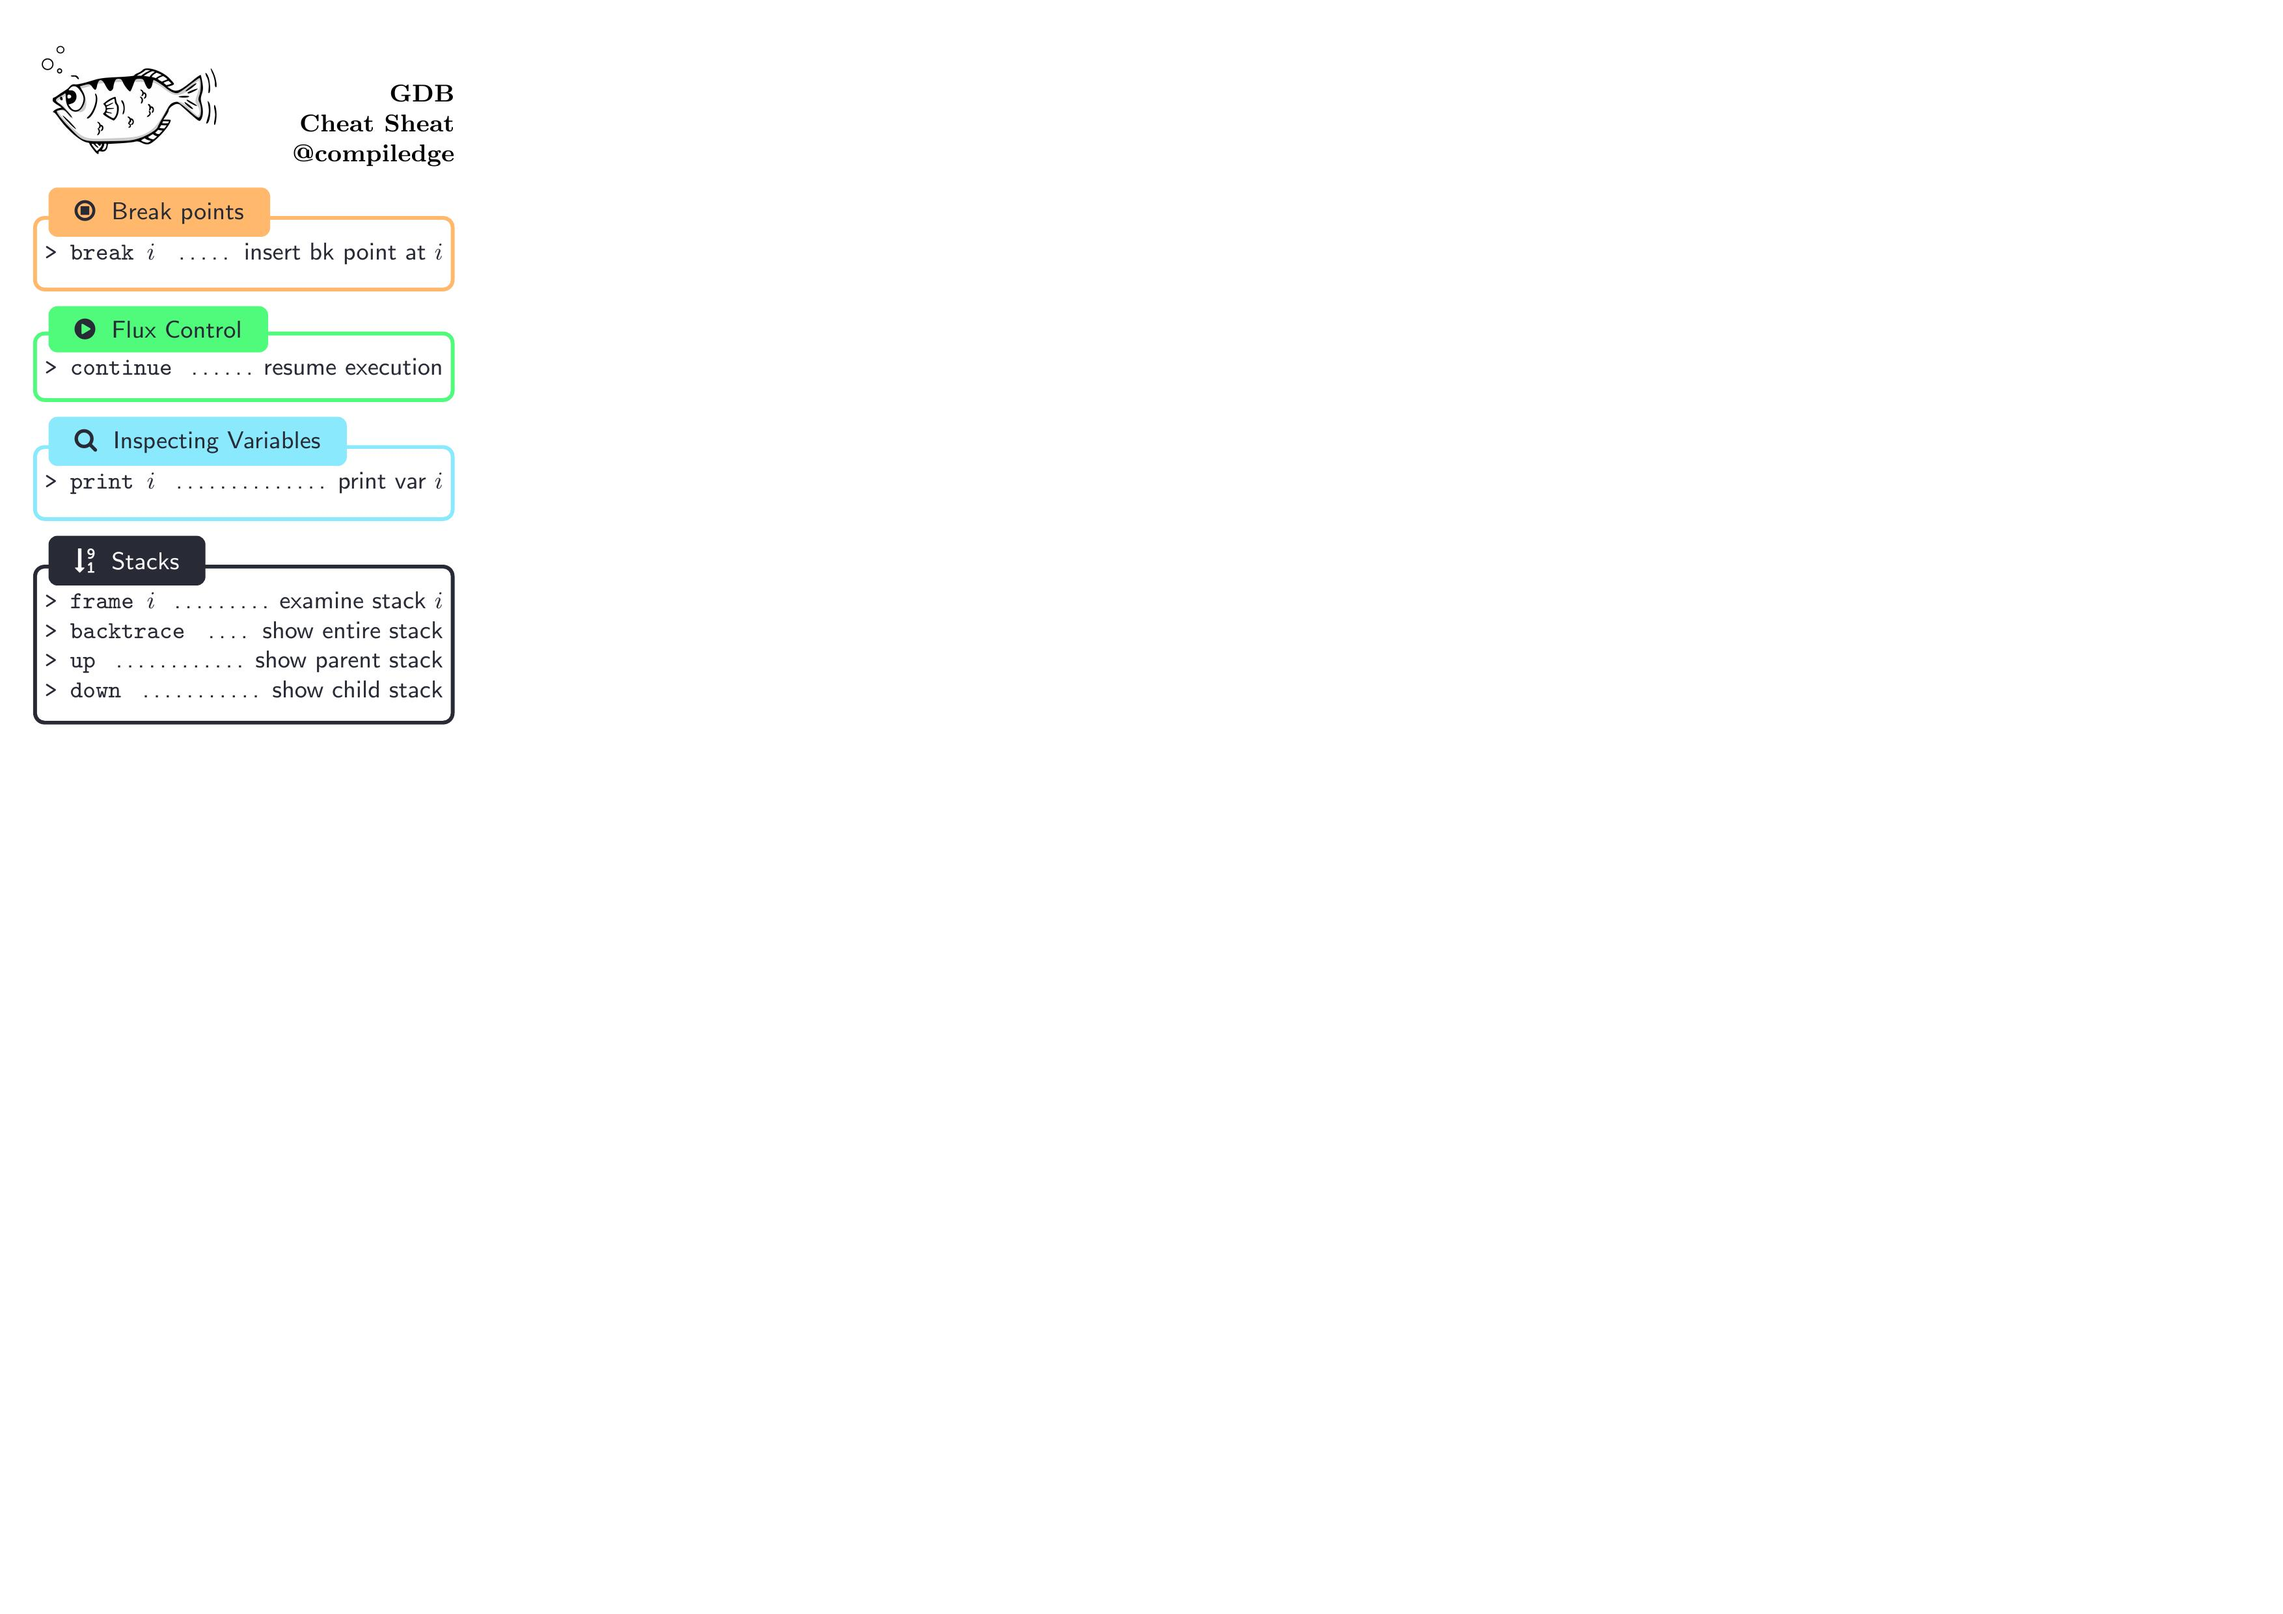
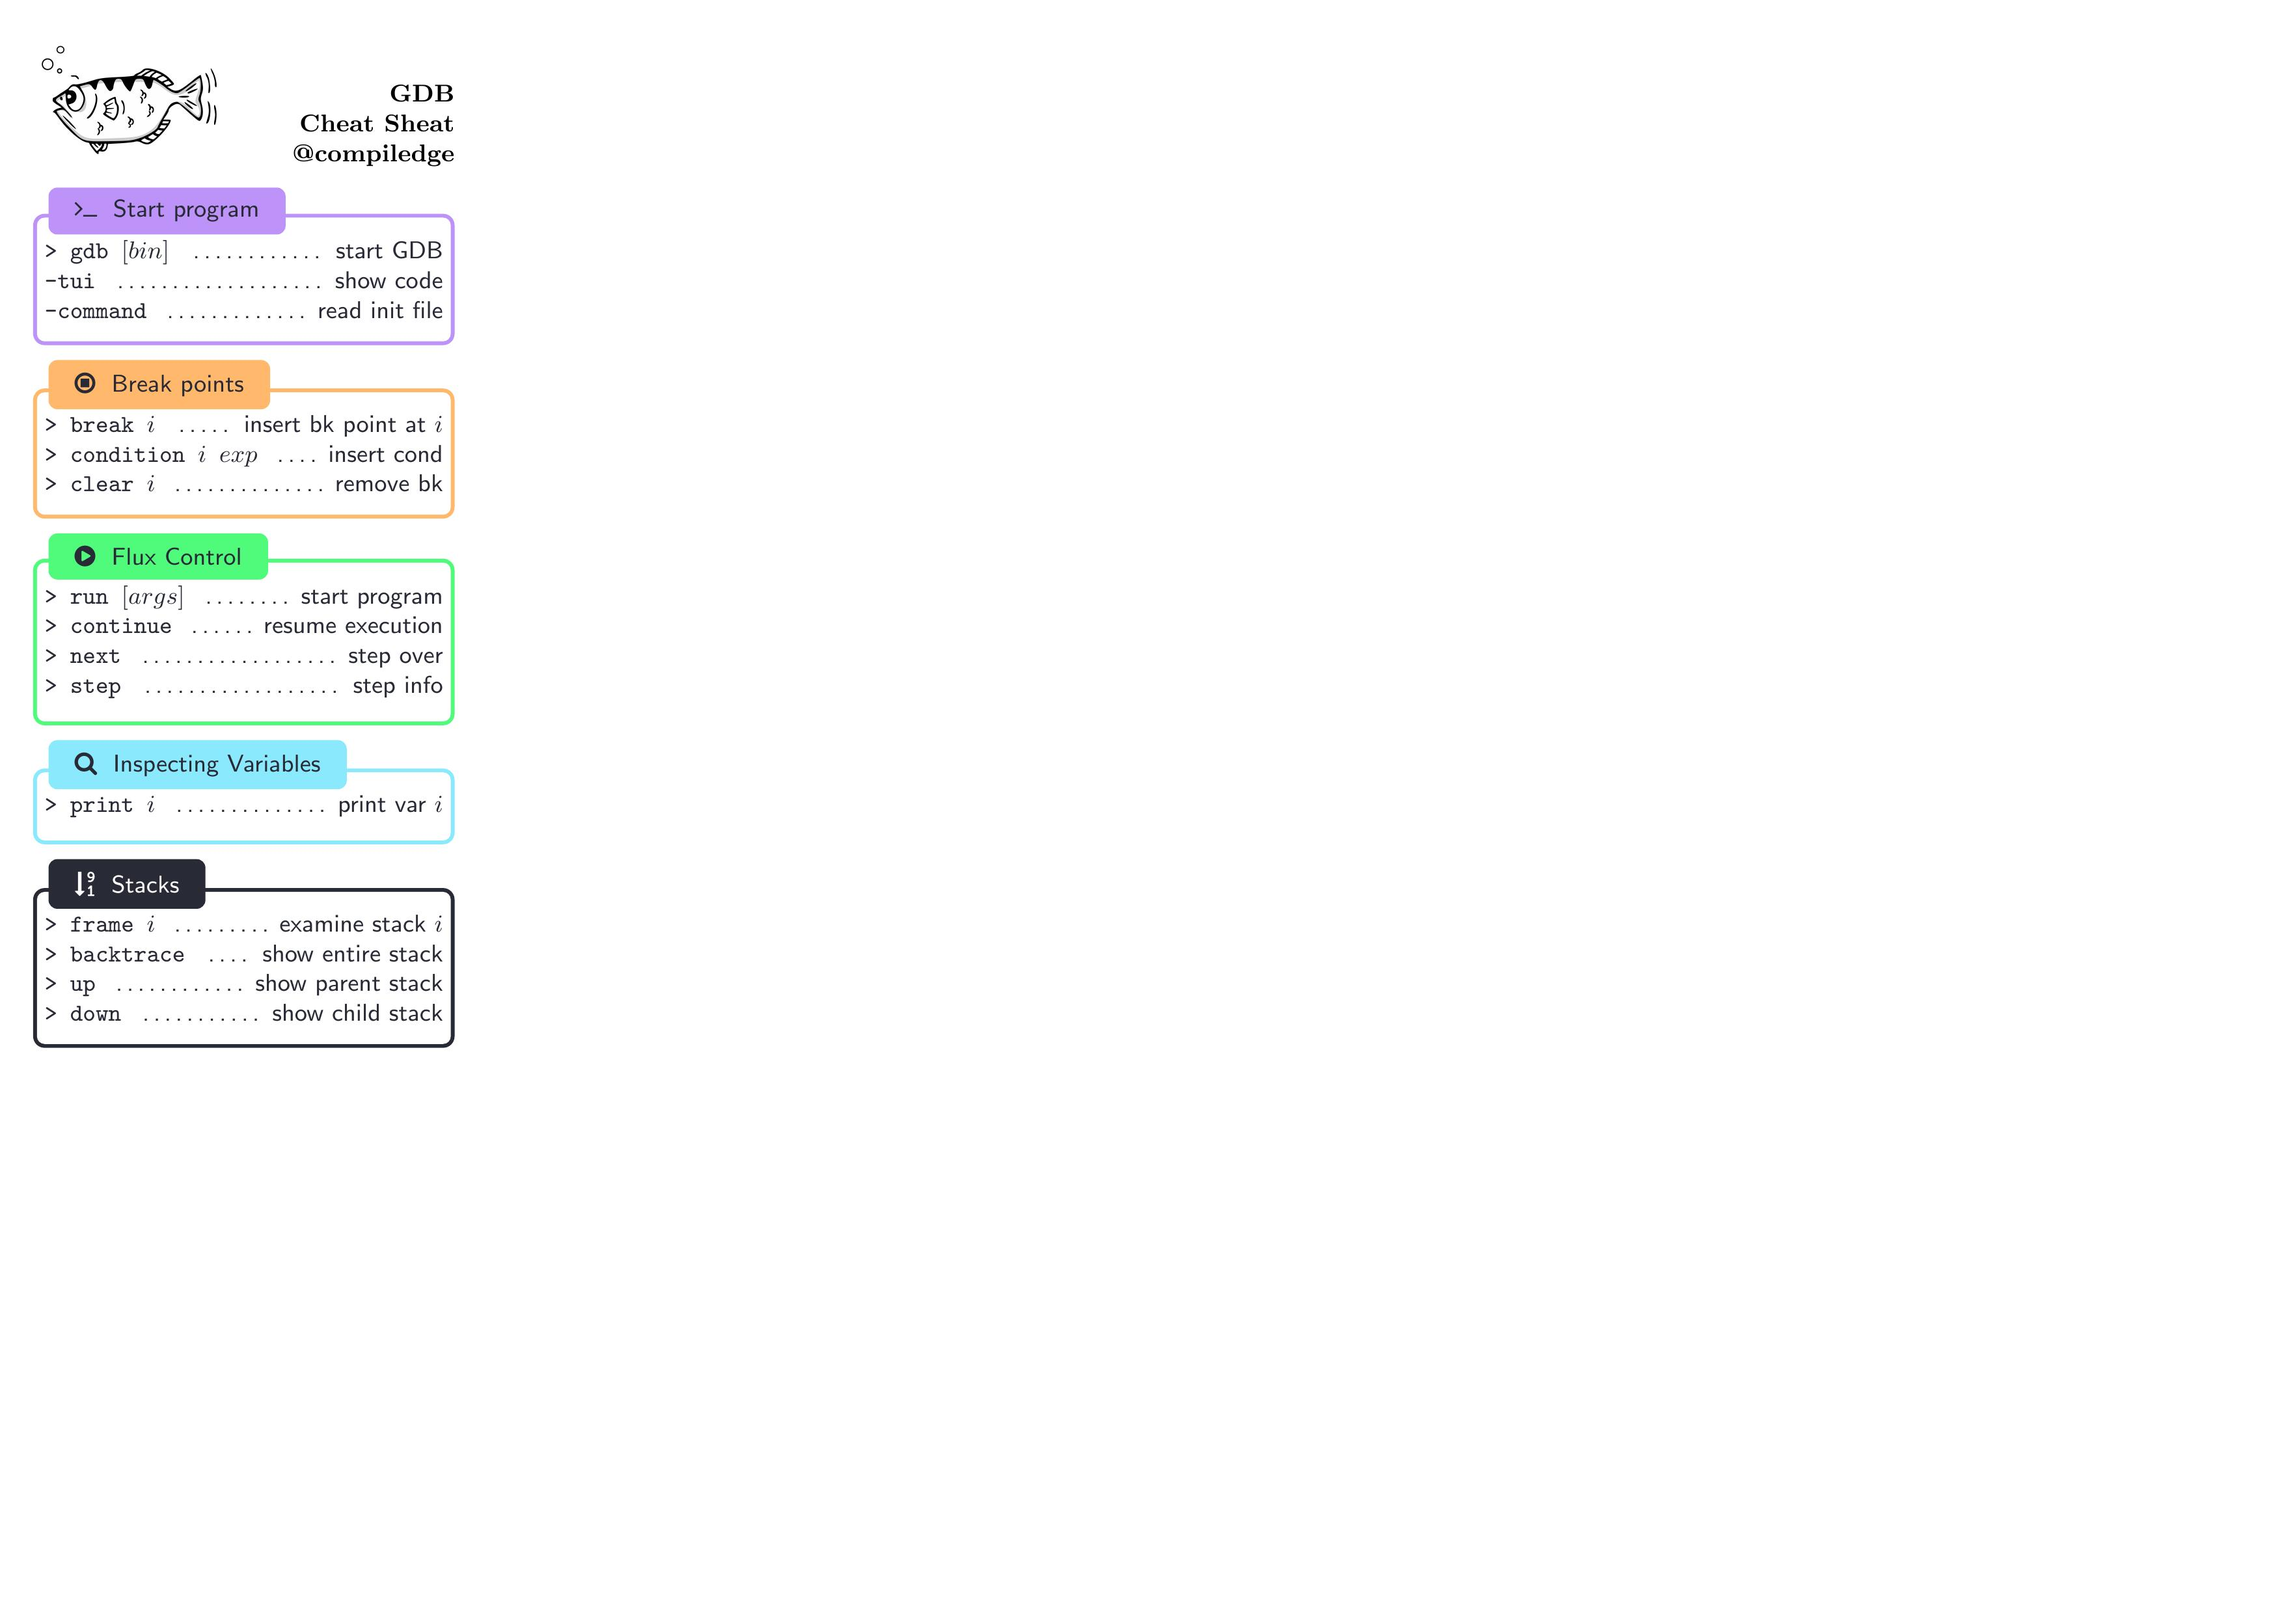
docs: Add some GDB examples

Changed region(s): [[0.0, 0.0931, 0.2175, 0.6518], [0.0932, 0.5586, 0.2175, 0.6518]]

diff --git a/gdb.tex b/gdb.tex
@@ -14,12 +14,25 @@ GDB \\ Cheat Sheat \\ @compiledge
 \end{flushright}
 \vspace{-0.25cm}
 
+
+
+\begin{ppbox}{\faTerminal}{Start program}
+	\command{> gdb $[bin]$}{start GDB}
+	\flag{-tui}{show code}
+	\flag{-command}{read init file}
+\end{ppbox}
+
 \begin{obox}{\faStopCircleO}{Break points}
 	\command{> break $i$}{insert bk point at $i$}
+	\command{> condition $i$ $exp$}{insert cond}
+	\command{> clear $i$}{remove bk}
 \end{obox}
 
 \begin{gbox}{\faPlayCircle}{Flux Control}
+	\command{> run $[args]$}{start program}
 	\command{> continue}{resume execution}
+	\command{> next}{step over}
+	\command{> step}{step info}
 \end{gbox}
 
 \begin{bbox}{\faSearch}{Inspecting Variables}
@@ -32,6 +45,11 @@ GDB \\ Cheat Sheat \\ @compiledge
 	\command{> up}{show parent stack}
 	\command{> down}{show child stack}
 \end{dbox}
+
+% Keys
+	% C-x-a tui
+	% <esc> move to scroll code window
+	% <i> move to console window
 
 \end{multicols*}
 \end{document}
